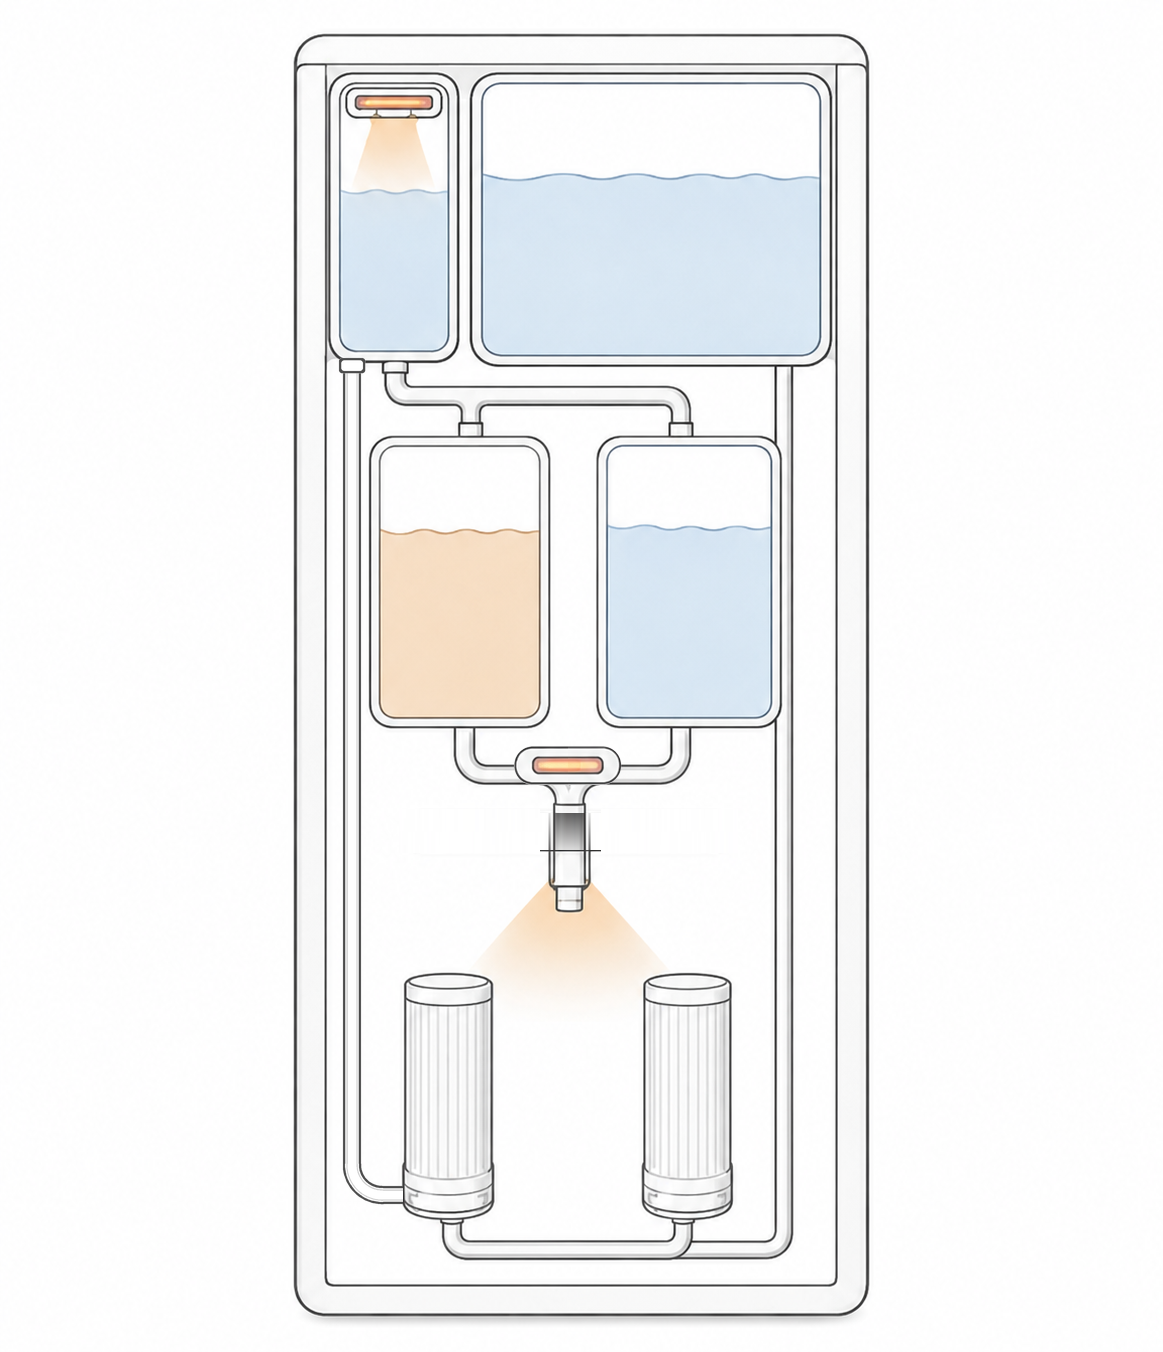
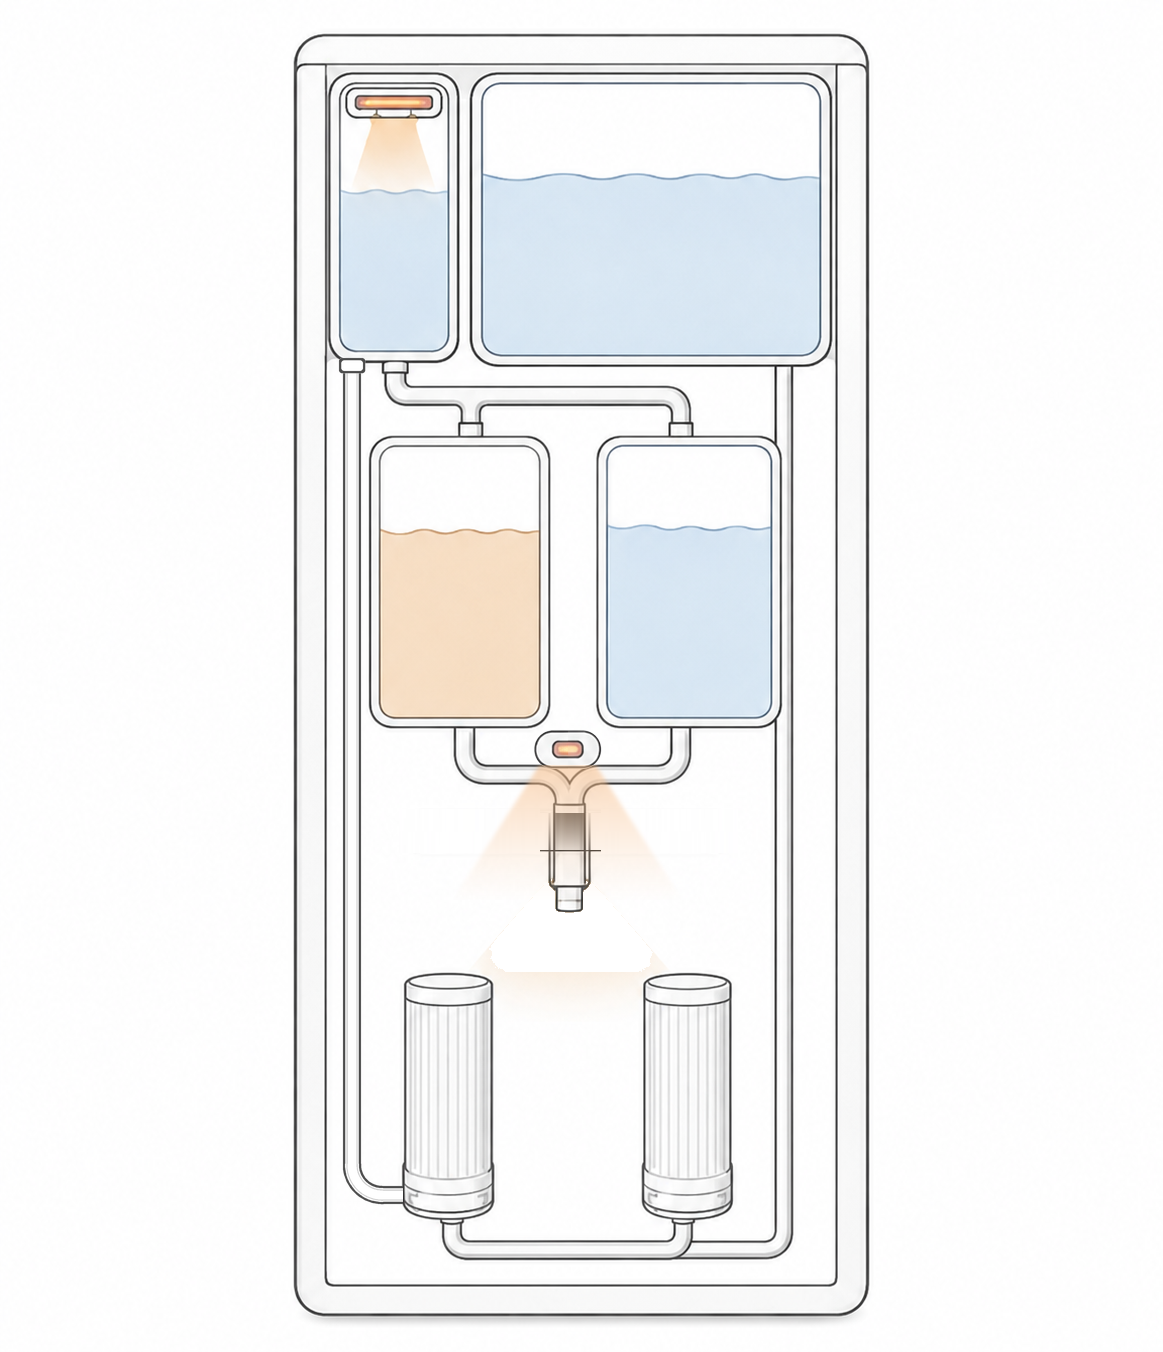
v2.3.4: メモリ補足・白湯の面・そもそも/だけどの色・膜の図の菌・カラー章PC2列・タンク図UVをハの字に

Changed region(s): [[0.4024, 0.5281, 0.5572, 0.7456]]

diff --git a/index.html b/index.html
@@ -509,16 +509,14 @@
       </div>
 
       <!-- 白湯（W09） -->
+      <div class="figbox md__imgbox md__imgbox--sq md__imgbox--sy">
+        <img class="md__mug" src="assets/W09_sayu/mug.png" width="238" height="269" alt="白湯の入ったマグカップの線画">
+      </div>
       <h4 class="h3">白湯（さゆ）― 55〜60℃</h4>
-      <div class="g2 md__sy">
-        <div class="stack">
-          <p class="p">コンビニや自動販売機で白湯の販売が増え、『サユナー』という言葉も生まれるほど、白湯の需要が高まっています。</p>
-          <p class="p">その白湯が、PureNextならボタン1つ。温度は55〜60℃で出ます。</p>
-          <p class="p">浄水型で白湯が出る機種は、ごくわずかです。</p>
-        </div>
-        <div class="figbox md__imgbox md__imgbox--sy">
-          <img class="md__mug" src="assets/W09_sayu/mug.png" width="238" height="269" alt="白湯の入ったマグカップの線画">
-        </div>
+      <div class="stack">
+        <p class="p">コンビニや自動販売機で白湯の販売が増え、『サユナー』という言葉も生まれるほど、白湯の需要が高まっています。</p>
+        <p class="p">その白湯が、PureNextならボタン1つ。温度は55〜60℃で出ます。</p>
+        <p class="p">浄水型で白湯が出る機種は、ごくわずかです。</p>
       </div>
 
       <div class="panel--sand md__sayu">
@@ -680,10 +678,8 @@
         </div>
       </div>
 
-      <ul class="md__memnotes">
-        <li class="note">冷水と常温水は共通のメモリです。</li>
-        <li class="note">温水・白湯・40℃モードは、それぞれ個別のメモリです。</li>
-      </ul>
+      <h5 class="h4">メモリの補足</h5>
+      <p class="p">冷水と常温水は共通のメモリです。</p>
     </div>
   </article>
 </section>
@@ -708,7 +704,7 @@
         <li class="uv__step">
           <h4 class="h4 uv__nh"><span class="num">02</span>タンク内は、菌が繁殖しにくい環境です</h4>
           <p class="p">温水タンクは90℃、冷水タンクは約6℃。どちらも菌が繁殖しにくい環境です。</p>
-          <p class="p uv__so">なので、タンクの中は心配が少ないです。</p>
+          <p class="h4 uv__so">なので、タンクの中は心配が少ないです。</p>
         </li>
         <li class="uv__conj">だけど</li>
         <li class="uv__step">
@@ -782,16 +778,15 @@
         <p class="p uv__pivot-t">膜が作られると、水を出すたびに膜が剥がれ落ちて水に混ざり、衛生面や味・品質の劣化の懸念を生みます。</p>
       </div>
       <div class="uv__peelbox">
-        <svg class="uv__peel" viewBox="0 0 320 300" role="img" aria-label="タンクから出水口へ向かう管の内側にぬるぬるの膜ができ、剥がれたかけらが水と一緒に出水口からコップへ流れ出ている図">
+        <svg class="uv__peel" viewBox="0 0 320 300" role="img" aria-label="タンクから出水口へ向かう管の内側に、菌がしがみついたぬるぬるの膜ができ、剥がれた膜のかけらだけが水と一緒に出水口からコップへ流れ出ている図">
           <path class="uv__pipewall" d="M60 6 V38 H136 V172 M260 6 V38 H184 V172"/>
           <path class="uv__pipewater" d="M140 40 H180 V172 H140 Z"/>
           <path class="uv__film" d="M136 92 Q150 96 148 110 Q150 126 138 134 Q146 148 136 160 Z"/>
           <path class="uv__film" d="M184 104 Q170 108 172 122 Q170 138 182 146 Q174 158 184 166 Z"/>
-          <g class="uv__dot"><circle cx="142" cy="106" r="1.8"/><circle cx="143" cy="126" r="1.8"/><circle cx="141" cy="148" r="1.8"/><circle cx="178" cy="118" r="1.8"/><circle cx="177" cy="140" r="1.8"/><circle cx="179" cy="158" r="1.8"/></g>
+          <g class="uv__dot"><circle cx="140" cy="100" r="1.8"/><circle cx="143" cy="112" r="1.8"/><circle cx="141" cy="124" r="1.8"/><circle cx="144" cy="138" r="1.8"/><circle cx="140" cy="152" r="1.8"/><circle cx="180" cy="112" r="1.8"/><circle cx="177" cy="126" r="1.8"/><circle cx="179" cy="140" r="1.8"/><circle cx="176" cy="154" r="1.8"/><circle cx="181" cy="162" r="1.8"/></g>
           <path class="uv__nozzle" d="M132 172 H188 V184 Q188 192 180 192 H140 Q132 192 132 184 Z"/>
           <path class="uv__stream" d="M152 192 H168 V236 H152 Z"/>
           <g class="uv__flake"><path d="M158 128 l7 -3 3 5 -7 4 z"/><path d="M162 160 l6 -3 3 5 -6 3 z"/><path d="M156 206 l6 -3 3 5 -6 3 z"/><path d="M162 224 l6 -3 3 5 -6 3 z"/><path d="M128 266 l7 -3 3 5 -7 4 z"/><path d="M176 258 l7 -3 3 5 -7 4 z"/><path d="M150 276 l7 -3 3 5 -7 4 z"/></g>
-          <g class="uv__dot"><circle cx="161" cy="130" r="1.6"/><circle cx="165" cy="162" r="1.6"/><circle cx="159" cy="208" r="1.6"/><circle cx="165" cy="226" r="1.6"/><circle cx="131" cy="268" r="1.6"/><circle cx="179" cy="260" r="1.6"/><circle cx="153" cy="278" r="1.6"/></g>
           <path class="uv__cupwater" d="M108 246 H212 L204 292 H116 Z"/>
           <path class="uv__cup" d="M102 236 H218 L208 294 H112 Z"/>
         </svg>
@@ -967,13 +962,16 @@
         <p class="p">温かみと冷たさの両方のニュアンスを持つ、柔らかく軽やかな白。家電なのに家電感がなく、空間に溶け込みます。</p>
       </div>
 
-      <figure class="cd__fig">
+      <div class="g2 cd__two">
+        <figure class="cd__fig">
         <img class="cd__photo" src="assets/W16b_clouddancer/pantone.png" width="301" height="529" alt="Pantone のカラー・オブ・ザ・イヤー クラウドダンサーのビジュアル">
         <figcaption class="note cd__cap">Pantone Color of the Year ― Cloud Dancer</figcaption>
       </figure>
-
-      <h4 class="h4">インテリアになじむ白</h4>
-      <p class="p">冷たくも無機質でもない、ふんわりとしたバランスの取れた白。木・陶器・リネンと調和し、置いてあっても主張しません。</p>
+        <div class="cd__txt">
+          <h4 class="h4">インテリアになじむ白</h4>
+                <p class="p">冷たくも無機質でもない、ふんわりとしたバランスの取れた白。木・陶器・リネンと調和し、置いてあっても主張しません。</p>
+        </div>
+      </div>
 
       <p class="src">出典：Pantone「Color of the Year」発表資料の説明をもとに要約</p>
     </div>

diff --git a/css/v2/S2b.css b/css/v2/S2b.css
@@ -20,7 +20,7 @@
 /* ---------- 白湯（W09）：左に本文・右にマグの図（元寸 238 幅のまま） ---------- */
 .md__sy{align-items:start}
 .md__imgbox--sy{padding:calc(var(--sp-in-lg)*var(--u))}
-.md__mug{width:calc(160*var(--u));height:auto}   /* 元 238×269。挿絵は本文の脇役（R5） */
+.md__mug{width:calc(88*var(--u));height:auto}   /* 元 238×269。温水/冷水の面（160×120）と同じ大きさに収める */
 
 /* 定量取水との掛け合わせ：サンドの面の中に本文2文＋右に液晶（幅 320） */
 .md__sayu{display:grid;grid-template-columns:1fr 1fr;
@@ -113,7 +113,7 @@
 
   /* --- 白湯：マグは 140px・面は絵に合わせて縮める --- */
   .md__imgbox--sy{padding:16px;width:fit-content;justify-self:start}
-  .md__mug{width:90px}
+  .md__mug{width:70px}
   .md__sayu{grid-template-columns:1fr;row-gap:24px}
   .md__lcd--lg{width:240px}
   .md__ml{font-size:52px;letter-spacing:0}
@@ -170,3 +170,8 @@
 .mm__chip rect{fill:var(--sand);stroke:var(--bronze);stroke-width:1.2}
 .mm__val text{fill:var(--charcoal);font-family:var(--jp-thin);font-weight:300}
 .mm__cap text{fill:var(--gray);font-family:var(--jp)}
+
+/* 白湯の面は温水/冷水と同じ 160×120。面→見出し 16・見出し→本文 12（他の2つと同じテンポ） */
+.md__imgbox--sy{padding:0}
+.blk__body>.md__imgbox--sy+.h3{margin-top:calc(var(--sp-in)*var(--u))}
+.blk__body>.h3+.stack{margin-top:calc(var(--sp-h3)*var(--u))}

diff --git a/css/v2/S3.css b/css/v2/S3.css
@@ -87,14 +87,18 @@
 .uv__cup{fill:none;stroke:var(--charcoal);stroke-width:1.4;stroke-linejoin:round}
 .uv__cupwater{fill:var(--mist);fill-opacity:.45}
 /* つなぎ言葉（そもそも／だけど）: 独立した1行・ブロンズ */
-.uv__conj{font-size:calc(28*var(--u));line-height:1.3;color:var(--bronze);font-weight:500;letter-spacing:calc(2*var(--u))}
+.uv__conj{display:inline-block;font-size:calc(28*var(--u));line-height:1;font-weight:500;letter-spacing:calc(3*var(--u));
+  color:var(--white);background:var(--mist);border-radius:calc(999*var(--u));
+  padding:calc(12*var(--u)) calc(28*var(--u)) calc(12*var(--u)) calc(31*var(--u))}
+.uv__conj{display:block;width:fit-content}
 .uv__conj+.uv__step{padding-top:calc(var(--sp-in)*var(--u))}
-.uv__step+.uv__conj{padding-top:calc(var(--sp-el)*var(--u))}
-.uv__so{font-weight:500}
+.uv__step+.uv__conj{margin-top:calc(var(--sp-el)*var(--u))}
+.uv__so{color:var(--charcoal)}
+.uv__step>.p+.uv__so{margin-top:calc(var(--sp-in-lg)*var(--u))}
 .uv__lead2{margin-top:calc(var(--sp-in)*var(--u))}
 @media (max-width:900px){
   .uv__sub{border-left-width:3px;padding-left:12px}
-  .uv__conj{font-size:20px}
+  .uv__conj{font-size:18px;padding:8px 18px 8px 20px}
   .uv__lead2{margin-top:8px}
   .uv__pivot{grid-template-columns:1fr;row-gap:16px}
   .uv__peelbox{width:220px;margin:0 auto}

diff --git a/css/v2/S5.css b/css/v2/S5.css
@@ -33,3 +33,13 @@
   .cd__photo{width:220px}
   .cd__cap{margin-top:12px}
 }
+
+/* v2.3.4: PC は画像を左・「インテリアになじむ白」を右（縦長画像1枚が中央に居座らないように）。スマホは1列（base） */
+.cd__two{align-items:center}
+.cd__two .cd__fig{margin-left:0;text-align:left}
+.cd__two .cd__fig .cd__photo{margin-left:0}
+.cd__txt>.h4+*{margin-top:calc(var(--sp-h4)*var(--u))}
+@media (max-width:900px){
+  .cd__two .cd__fig{text-align:center}
+  .cd__two .cd__fig .cd__photo{margin-left:auto}
+}
